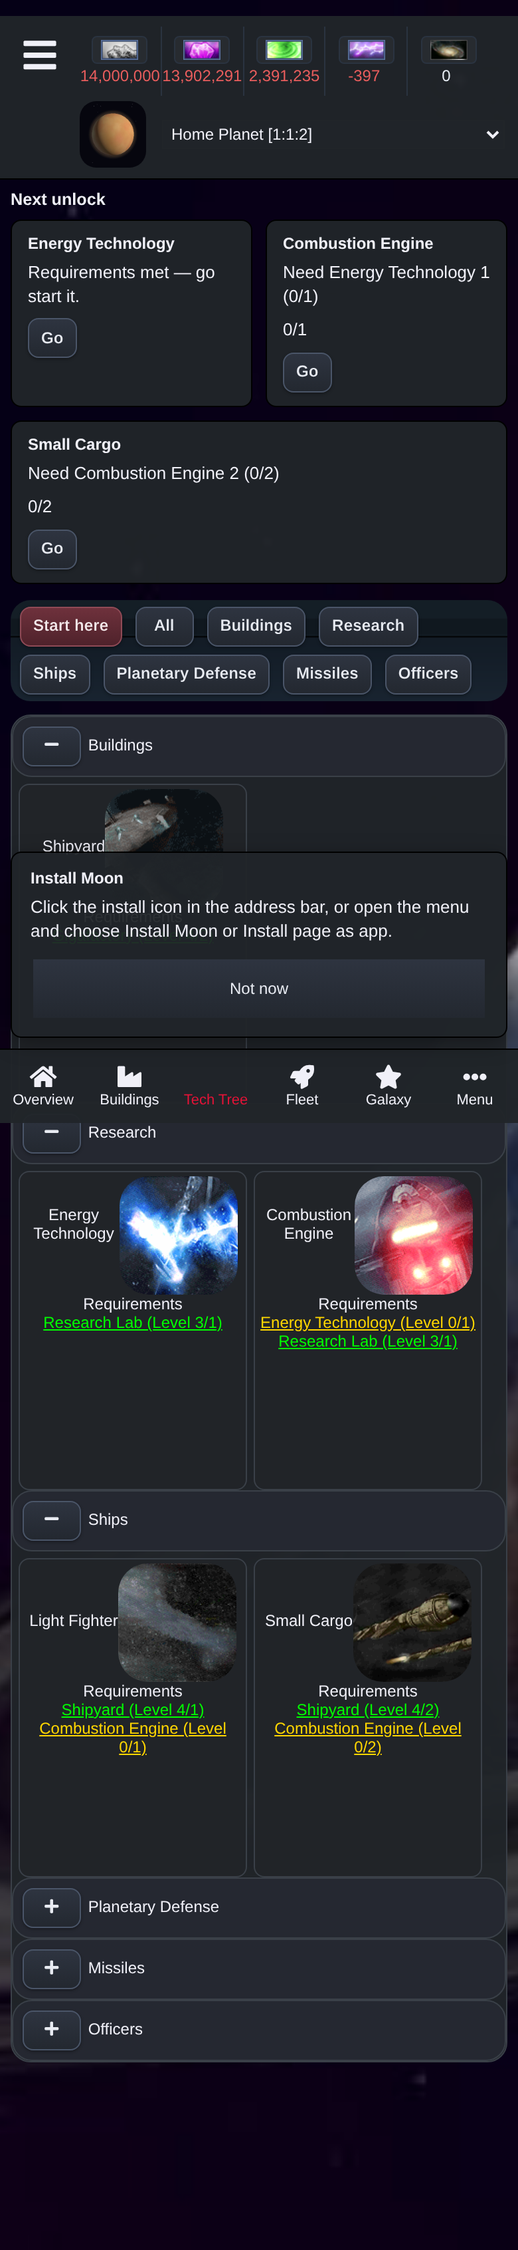
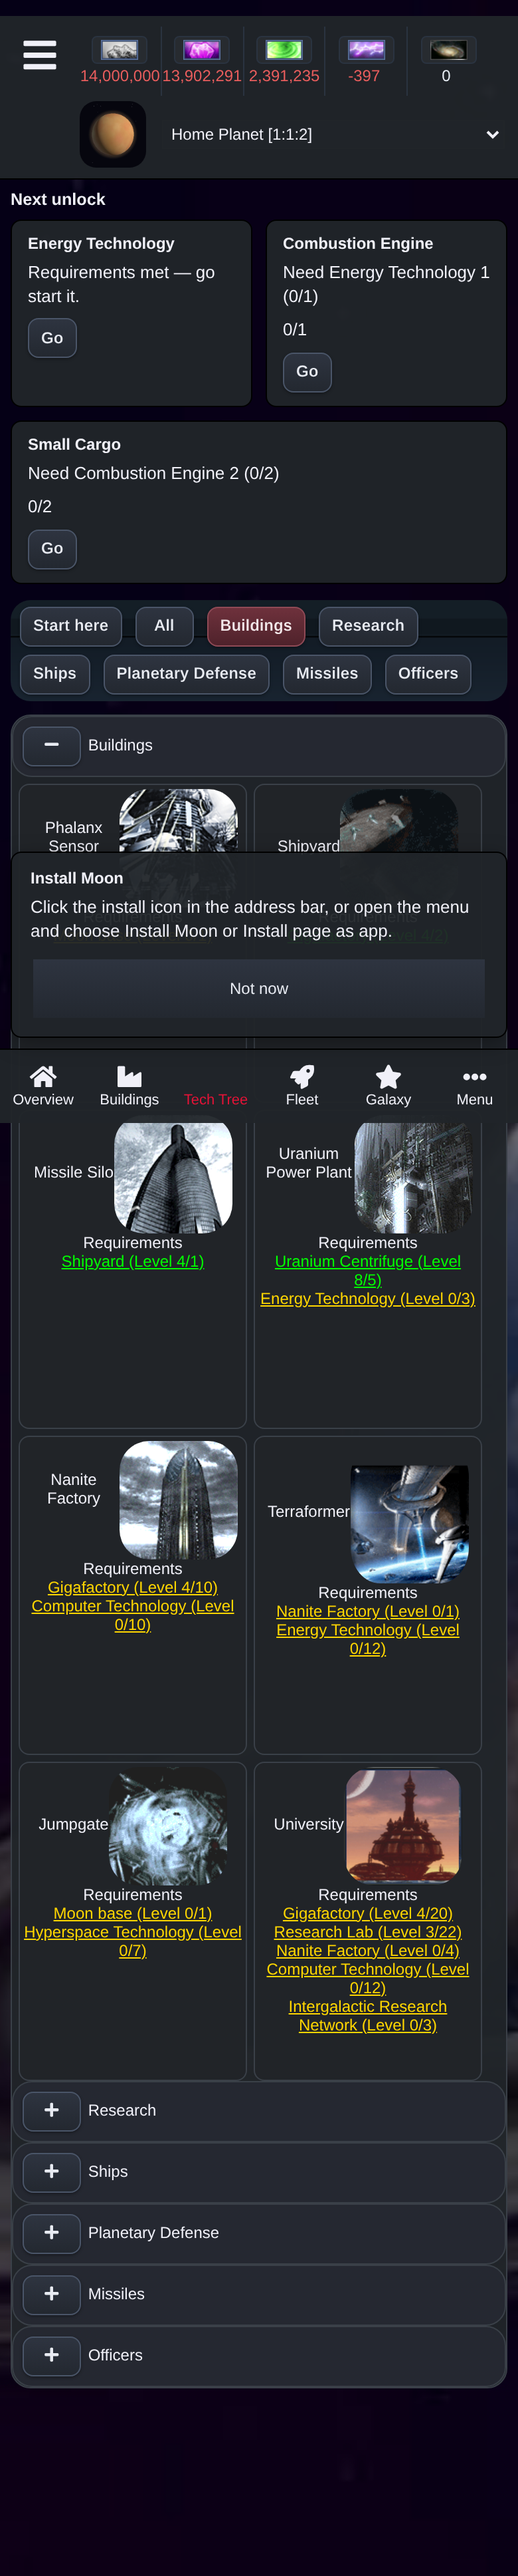
feat: add batch-2 building stills and Shipyard v2
Drop HD cutouts for 12, 15, 21, 23, 24, 33, 34, 41, 42, 43 and 44
into styles/theme/nova/gebaeude-hd/. Shipyard uses the sharper v2
still. University (6) still has no file and stays on the GIF.

diff --git a/tests/Unit/GameElementImageTest.php b/tests/Unit/GameElementImageTest.php
@@ -135,12 +135,13 @@ class GameElementImageTest extends TestCase
 		$this->assertFalse($resolver->hasHd('./styles/theme/hive/', -3));
 	}
 
-	public function testRepoBatch1AssetsResolveAndShipyardIsOmitted(): void
+	public function testRepoHdAssetsResolveAndUniversityStaysGif(): void
 	{
 		$resolver = new GameElementImage();
 		$dpath = './styles/theme/hive/';
 
-		foreach ([1, 2, 3, 4, 14, 22, 31] as $id) {
+		$hdIds = [1, 2, 3, 4, 12, 14, 15, 21, 22, 23, 24, 31, 33, 34, 41, 42, 43, 44];
+		foreach ($hdIds as $id) {
 			$this->assertTrue($resolver->hasHd($dpath, $id), 'expected HD still for building ' . $id);
 			$this->assertSame(
 				'./styles/theme/hive/gebaeude-hd/' . $id . '.png',
@@ -148,8 +149,8 @@ class GameElementImageTest extends TestCase
 			);
 		}
 
-		$this->assertFalse($resolver->hasHd($dpath, 21), 'shipyard v1 was left out (no v2 still)');
-		$this->assertSame('./styles/theme/hive/gebaeude/21.gif', $resolver->url($dpath, 21));
+		$this->assertFalse($resolver->hasHd($dpath, 6), 'University still has no still; keep the GIF');
+		$this->assertSame('./styles/theme/hive/gebaeude/6.gif', $resolver->url($dpath, 6));
 	}
 
 	private function removeTree(string $dir): void
